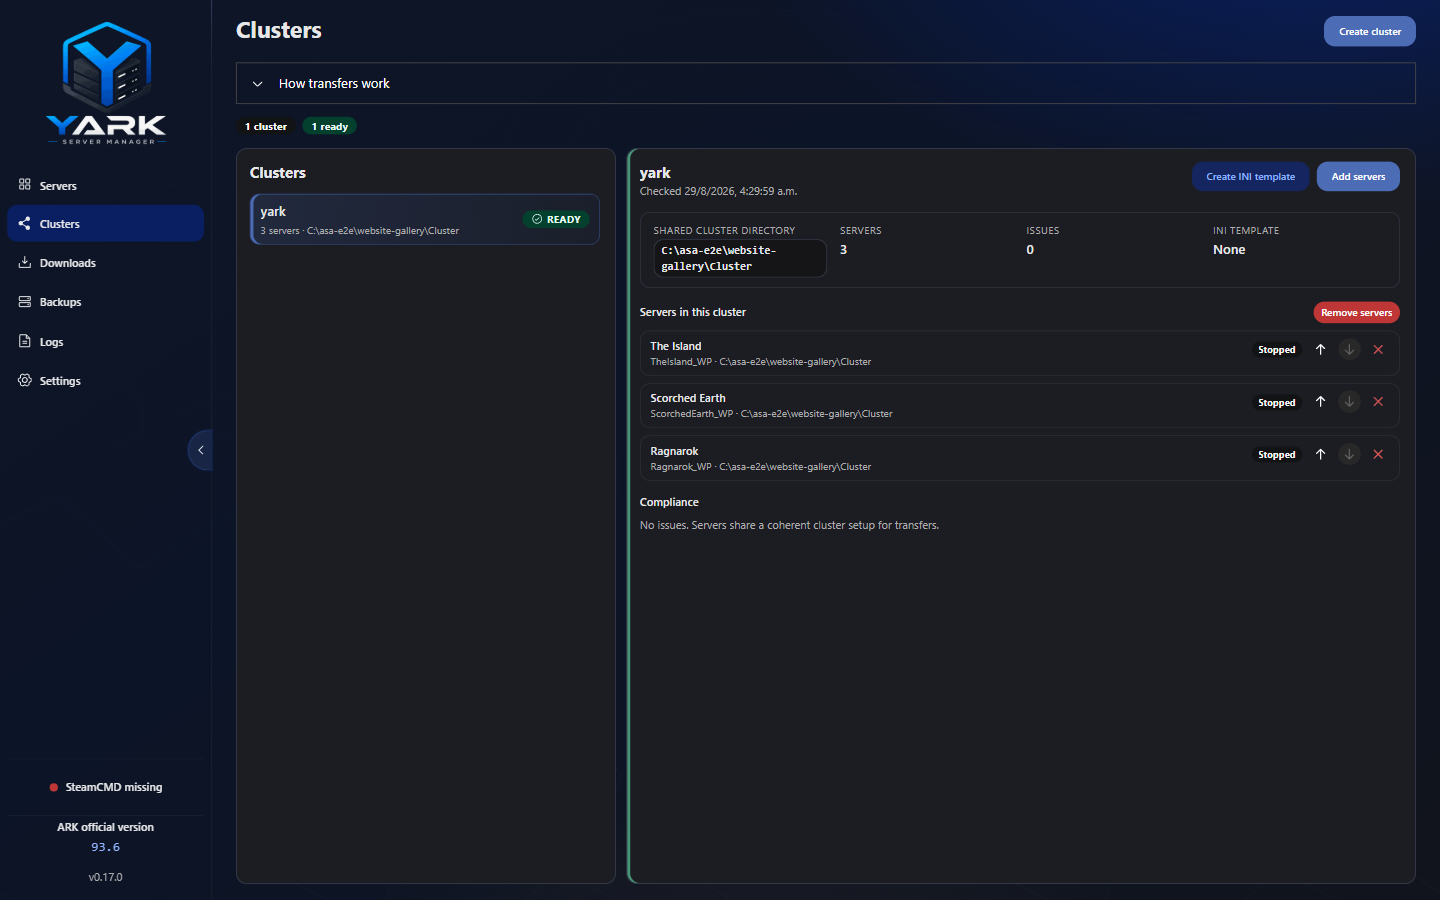
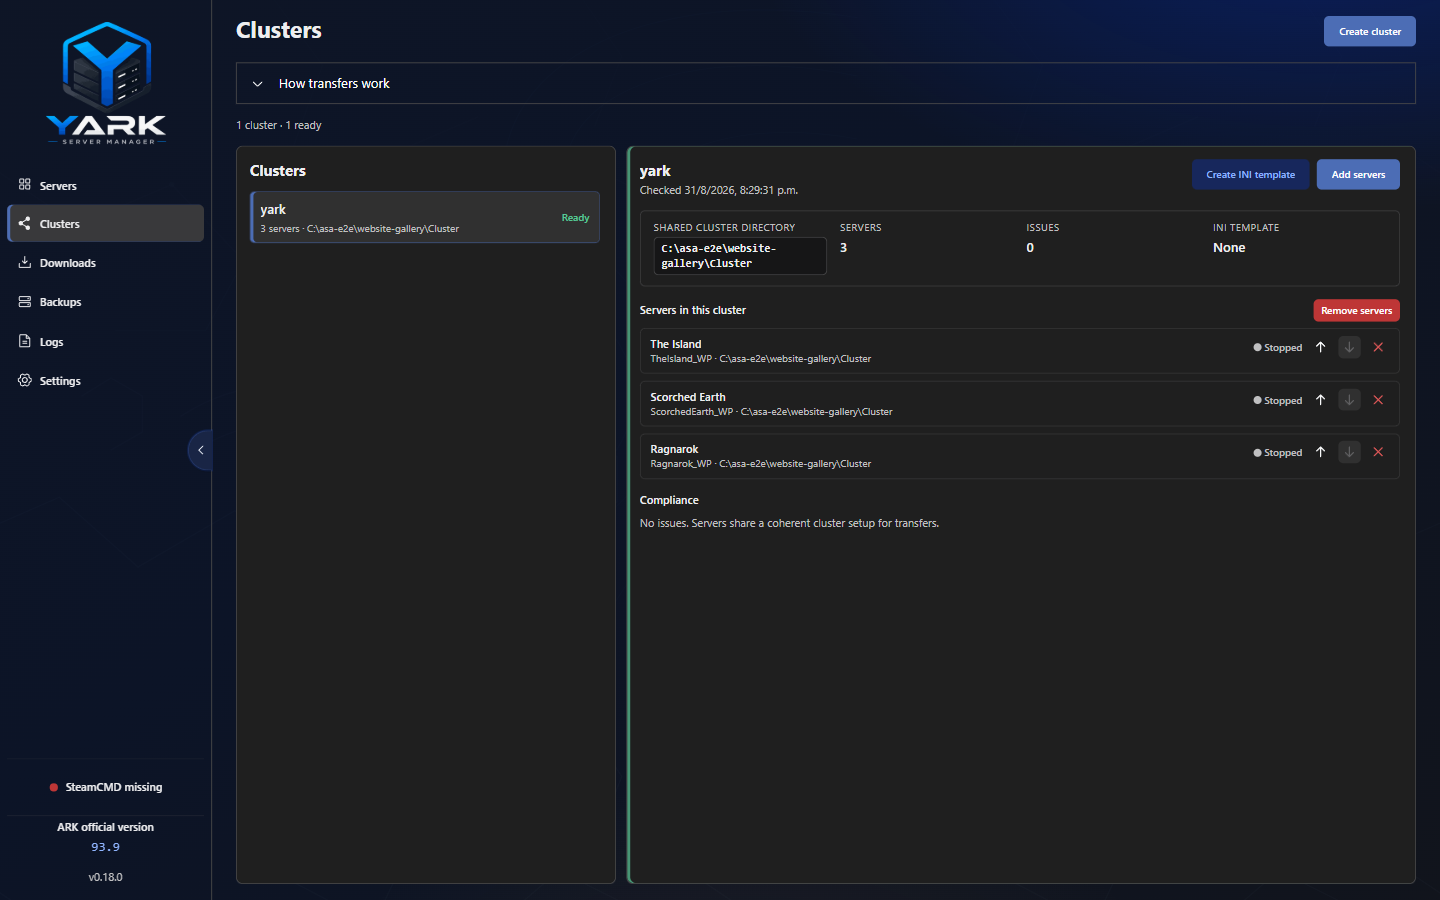
release: v0.18.0
Cut Maintenance release notes, bump package version, refresh gallery screenshots including workspace-maintenance, and publish operator docs on getyark.com.

diff --git a/src/shared/changelog.ts b/src/shared/changelog.ts
@@ -24,6 +24,43 @@ const DEFAULT_RECENT_CHANGELOG_LIMIT = 8;
  */
 export const changelog: ChangelogEntry[] = [
   {
+    version: "0.18.0",
+    date: "2026-08-31",
+    sections: [
+      {
+        title: "Added",
+        items: [
+          "Per-server Maintenance tab (off by default): Up next, schedules, and player warning presets while YARK is open.",
+          "Scheduled restart with in-game chat countdown, weekdays + local time, Run now / Cancel, and graceful restart with backup.",
+          "Optional wild dino wipe right after a successful maintenance restart.",
+          "Opt-in auto-update when a newer dedicated build is available — warn players, stop at countdown end, update, then start again (skipped while Downloads is paused).",
+        ],
+      },
+      {
+        title: "Changed",
+        items: [
+          "Keyboard: Ctrl+K Spotlight, Overview cards and menus, workspace tabs, and Settings categories.",
+          "Status uses words and a status dot instead of light-pill badges; panels use solid fills and tighter radius.",
+          "Logs and Settings sit on the page canvas; What's new is a wider release brief.",
+          "Destructive confirms share one red-styled danger modal helper.",
+        ],
+      },
+      {
+        title: "Fixed",
+        items: [
+          "Scheduled restart still runs when player warnings are Off; fail-streak pause stops both restart and auto-update.",
+          "Fleet Cleanup keep-limit and Keep last N keep world archives per map when rotating maps.",
+        ],
+      },
+      {
+        title: "Security",
+        items: [
+          "Logs, crash excerpts, events, and IPC errors omit GameUserSettings password settings and redact leftover credential assignments.",
+        ],
+      },
+    ],
+  },
+  {
     version: "0.17.0",
     date: "2026-08-29",
     sections: [

diff --git a/website/src/data/roadmap.ts b/website/src/data/roadmap.ts
@@ -10,6 +10,10 @@ export type RoadmapItem = {
  * Prefer operator-visible product work from open issues (not CI/packaging hygiene).
  * Not a ship promise — keep wording directional. Milestones on GitHub stay authoritative.
  *
+ * Shipped in v0.18.0 (removed from this list): Maintenance tab — scheduled restart,
+ * wild wipe, opt-in auto-update (#486–#489); keyboard P0/P1 (#476/#477); canvas shells /
+ * status words / surface tokens (#468–#470); What's new brief (#466); danger confirms
+ * (#235); credential redaction in diagnostics (#144); Cleanup per-map retain (#492/#497).
  * Shipped in v0.17.0 (removed from this list): RCON remote AdminListURL (#153),
  * create/clone next-free ports (#55), visual Map picker (#460), Search Maps… (#295),
  * Mods drawer screenshots/description (#342), workspace Backups/Logs polish (#231/#225).

diff --git a/website/src/data/screenshots.ts b/website/src/data/screenshots.ts
@@ -62,6 +62,12 @@ export const screenshots: Screenshot[] = [
       "Server Backups — shared destination, Backup now in the history toolbar, world schedule, and restore for world / players / INI.",
   },
   {
+    src: withBase("/screenshots/workspace-maintenance.png"),
+    alt: "YARK Maintenance tab with Up next, restart schedule, wild dino wipe, and auto-update controls for an ASA dedicated server",
+    caption:
+      "Maintenance — schedule restarts, optional wild dino wipe, and opt-in auto-update with in-game chat warnings while YARK is open.",
+  },
+  {
     src: withBase("/screenshots/configuration-wizard.png"),
     alt: "YARK configuration assistant with experience-profile cards and a six-step wizard",
     caption:

diff --git a/website/src/data/faq.ts b/website/src/data/faq.ts
@@ -82,6 +82,16 @@ export const faqItems: FaqItem[] = [
       </p>`,
   },
   {
+    question: "Can YARK schedule restarts or auto-updates?",
+    answerHtml: `
+      <p>
+        Yes — the per-server <strong>Maintenance</strong> tab (off by default) can schedule
+        restarts with in-game chat warnings, an optional wild dino wipe after restart, and
+        opt-in auto-update when a newer dedicated build is available. Jobs only run while
+        YARK is open (same honesty as scheduled world backups).
+      </p>`,
+  },
+  {
     question: "Does YARK download CurseForge mods for me?",
     answerHtml: `
       <p>

diff --git a/CHANGELOG.md b/CHANGELOG.md
@@ -9,6 +9,8 @@ How to bump versions and cut releases: see [docs/versioning.md](docs/versioning.
 
 ## [Unreleased]
 
+## [0.18.0] - 2026-08-31
+
 ### Added
 
 - Per-server **Maintenance** tab (off by default): see what’s next, schedule jobs, and set player warning presets while YARK is open (#486).
